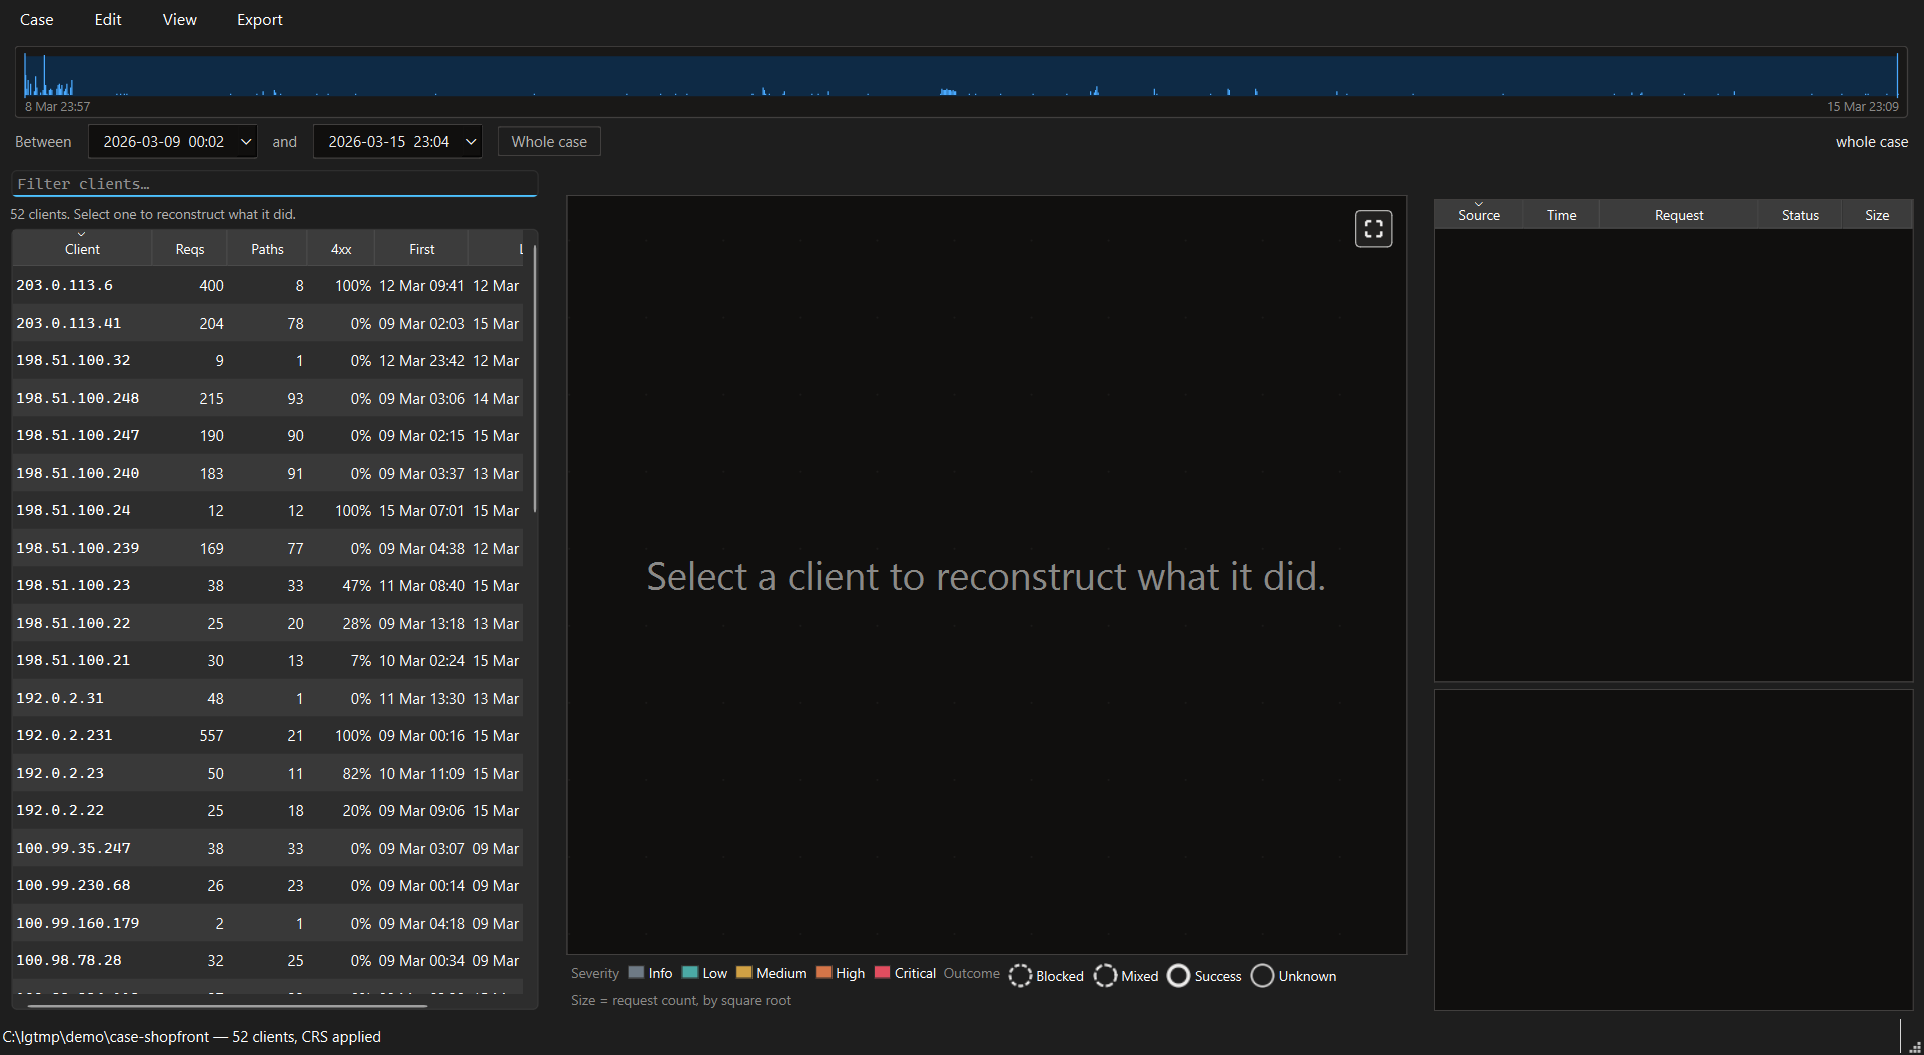
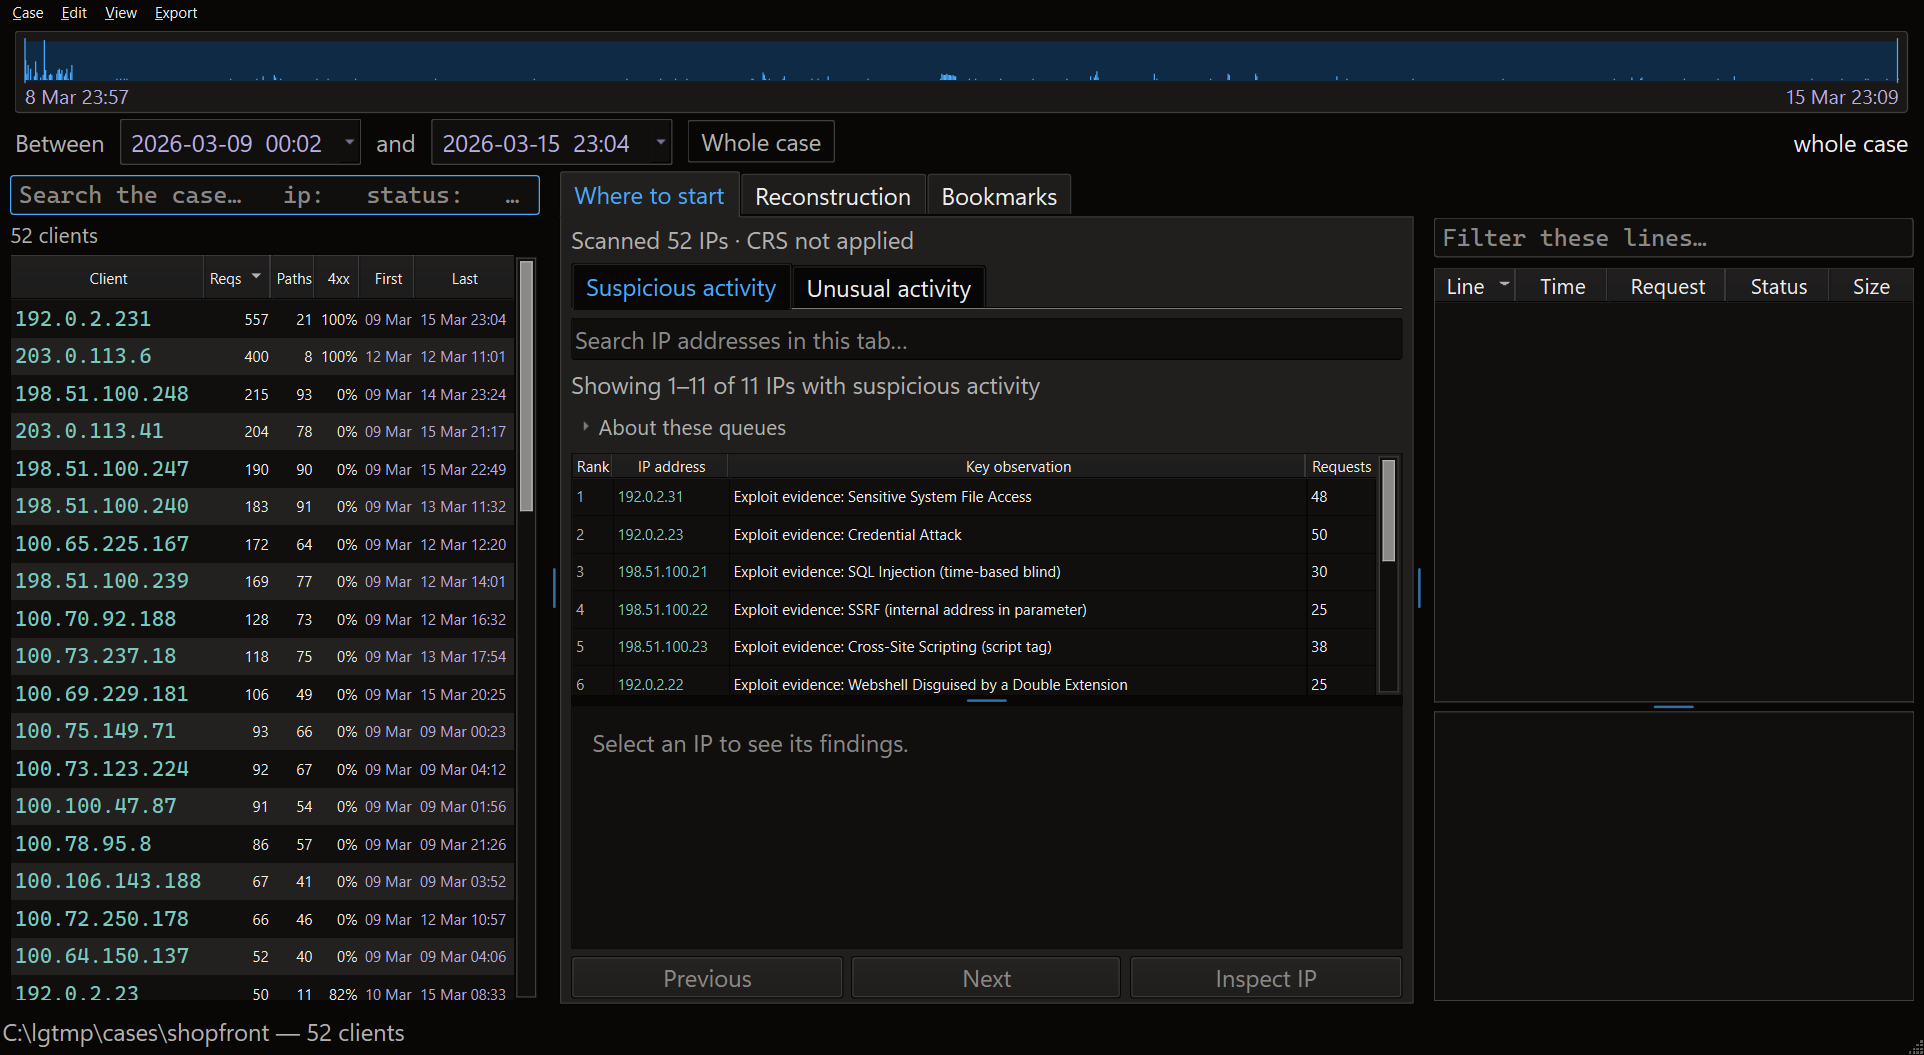
docs(images): retake the screenshots and terminal images on today's build

diff --git a/README.md b/README.md
@@ -66,7 +66,10 @@ Then, in the window:
 
 1. **Case → Ingest logs into a new case…**, choose
    `tests/data/apache-shopfront/excerpt.log`, then an empty folder for the case.
-   The format is detected; nothing is configured.
+   The format is detected; nothing is configured. On a fresh clone a notice
+   then says **CRS is not installed**: the case is complete without it, so
+   choose **Continue**. [docs/installing.md](docs/installing.md#owasp-crs) sets
+   up that optional second ruleset.
 2. **Where to start** lists the clients worth reading first, each with the
    measurements behind its place in the queue.
 3. Click **192.0.2.31** in the client list. Its 48 requests, over three
@@ -77,9 +80,9 @@ Then, in the window:
 5. **Ctrl+D** bookmarks what you are looking at. **Export → HTML report…**
    writes a standalone report.
 
-![557 requests folded into five activities, with the wordlist behind the selected one](docs/images/screenshot-behaviour.png)
+![557 requests folded into two activity types, with the wordlist behind the selected one](docs/images/screenshot-behaviour.png)
 
-<sub>The **behaviour map**: the same reconstruction folded by activity type, so repetition becomes structure. 201 episodes become five nodes, and `x23` on an arrow says the client went round that loop twenty-three times — the thing a chronological trace cannot show. The evidence panel holds all 242 requests of the selected one: `/admin.php`, `/vendor/`, `/db.sql`, `/backup.zip`, `/phpmyadmin/` — a wordlist, being worked through.</sub>
+<sub>The **behaviour map** of another client, 192.0.2.231: the same reconstruction folded by activity type, so repetition becomes structure. Its 157 activities become two nodes, and `x45` and `x41` on the arrows say it switched from one to the other 45 times and back 41 times — the thing a chronological trace cannot show. The evidence panel holds all 355 requests of the selected one: `/admin.php`, `/vendor/…`, `/db.sql`, `/backup.zip`, `/shell.php` — a wordlist, being worked through.</sub>
 
 Every screen is described in [docs/desktop-app.md](docs/desktop-app.md).
 

diff --git a/docs/desktop-app.md b/docs/desktop-app.md
@@ -117,9 +117,13 @@ list removes the registry key rather than storing an empty one in it.
 
 ## Reading a case
 
-![The case as it opens: every client, and the traffic band above](images/screenshot-case.png)
+![The case as it opens: every client, the traffic band above, and Where to start](images/screenshot-case.png)
 
-The table lists the busiest clients in the case, sortable by every column. The
+A case opens on **Where to start**, which scans every client in the background
+and queues the ones worth reading first;
+[ip-prioritization.md](ip-prioritization.md) explains how it orders them.
+
+The table on the left lists the busiest clients in the case, sortable by every column. The
 `4xx` share is the one worth sorting by first: a client probing for things that
 are not there looks exactly like a high refusal rate.
 
@@ -199,12 +203,12 @@ no pause inside it longer than 30 minutes, the same user agent throughout, and
 *Outline each session* preference turns the boxes off, and nothing moves when
 it does.
 
-![The behaviour map: 557 requests folded into five activities](images/screenshot-behaviour.png)
+![The behaviour map: 557 requests folded into two activity types](images/screenshot-behaviour.png)
 
 **Behaviour map** is aggregated: one node per activity type, arrows weighted by
-how often that transition was observed. It reads as a habit. The `x23` on an
-arrow is the thing the trace cannot show — that the client went round that loop
-twenty-three times.
+how often that transition was observed. It reads as a habit. The `x45` on an
+arrow is the thing the trace cannot show — that the client went from one probe
+to the other forty-five times.
 
 Neither view links across a session boundary. A gap long enough to end a session
 is a break in the story, not a transition within it.

diff --git a/docs/README.md b/docs/README.md
@@ -7,11 +7,14 @@ Start with whichever question you arrived with.
 | How to install it, build the Windows application, or set up OWASP CRS | [installing.md](installing.md) |
 | How the whole thing fits together | [architecture.md](architecture.md) |
 | How to use the desktop application | [desktop-app.md](desktop-app.md) |
+| How Where to start decides which clients to read first | [ip-prioritization.md](ip-prioritization.md), and the checks behind it in [evaluations/](evaluations/) |
 | What it detects, and what its OWASP annotations claim | [detection.md](detection.md) |
 | Which log formats it reads, and how to write your own | [log-formats.md](log-formats.md) |
 | How to add a detection without writing Python | [writing-rules.md](writing-rules.md) |
 | How to support another log format in code | [adding-a-parser.md](adding-a-parser.md) |
 | How well it works, and what the numbers do not establish | [evaluation.md](evaluation.md) |
+| What each rule pack scored, and what still gets through | [rule-pack-ledger.md](rule-pack-ledger.md) |
+| Which colours the window's text uses, and why | [gui-text-colors.md](gui-text-colors.md) |
 | How to use the developer command line | [command-line.md](command-line.md) |
 | What the automated suite cannot check | [manual-test-plan.md](manual-test-plan.md) |
 | **Why** it is built this way | [adr/](adr/README.md), and the table below |

diff --git a/docs/command-line.md b/docs/command-line.md
@@ -21,7 +21,8 @@ source .venv/bin/activate         # Linux and macOS
 pip install -e ".[gui]"
 
 # 1. Read the log into a case. The format is detected; nothing is configured.
-logarc ingest tests/data/apache-shopfront/excerpt.log --case ./case-shop
+#    --no-crs skips the OWASP CRS replay, which needs a one-time setup first.
+logarc ingest tests/data/apache-shopfront/excerpt.log --case ./case-shop --no-crs
 
 # 2. Who looks like they were probing? Sort by the share of 4xx responses.
 logarc list-ips --case ./case-shop --sort errors --limit 8
@@ -39,10 +40,12 @@ logarc-gui
 
 Step 3 prints this:
 
-![logarc analyze reduces 48 requests to 8 activities, naming two successful SQL injections](images/cli-analyze.png)
+![logarc analyze reduces 48 requests to 3 activities, the last 46 requests of successful SQL injection](images/cli-analyze.png)
 
-Forty-eight requests, three sessions, eight activities — and the two that matter
-are named, dated, mapped to OWASP, and marked `success` rather than `blocked`.
+Forty-eight requests, three sessions, three activities — and the one that matters,
+46 requests of SQL injection, is named, dated, mapped to OWASP, and marked
+`success` rather than `blocked`. The first line says CRS was not consulted;
+[installing.md](installing.md#owasp-crs) sets it up.
 
 Step 4 shows why you can believe it:
 
